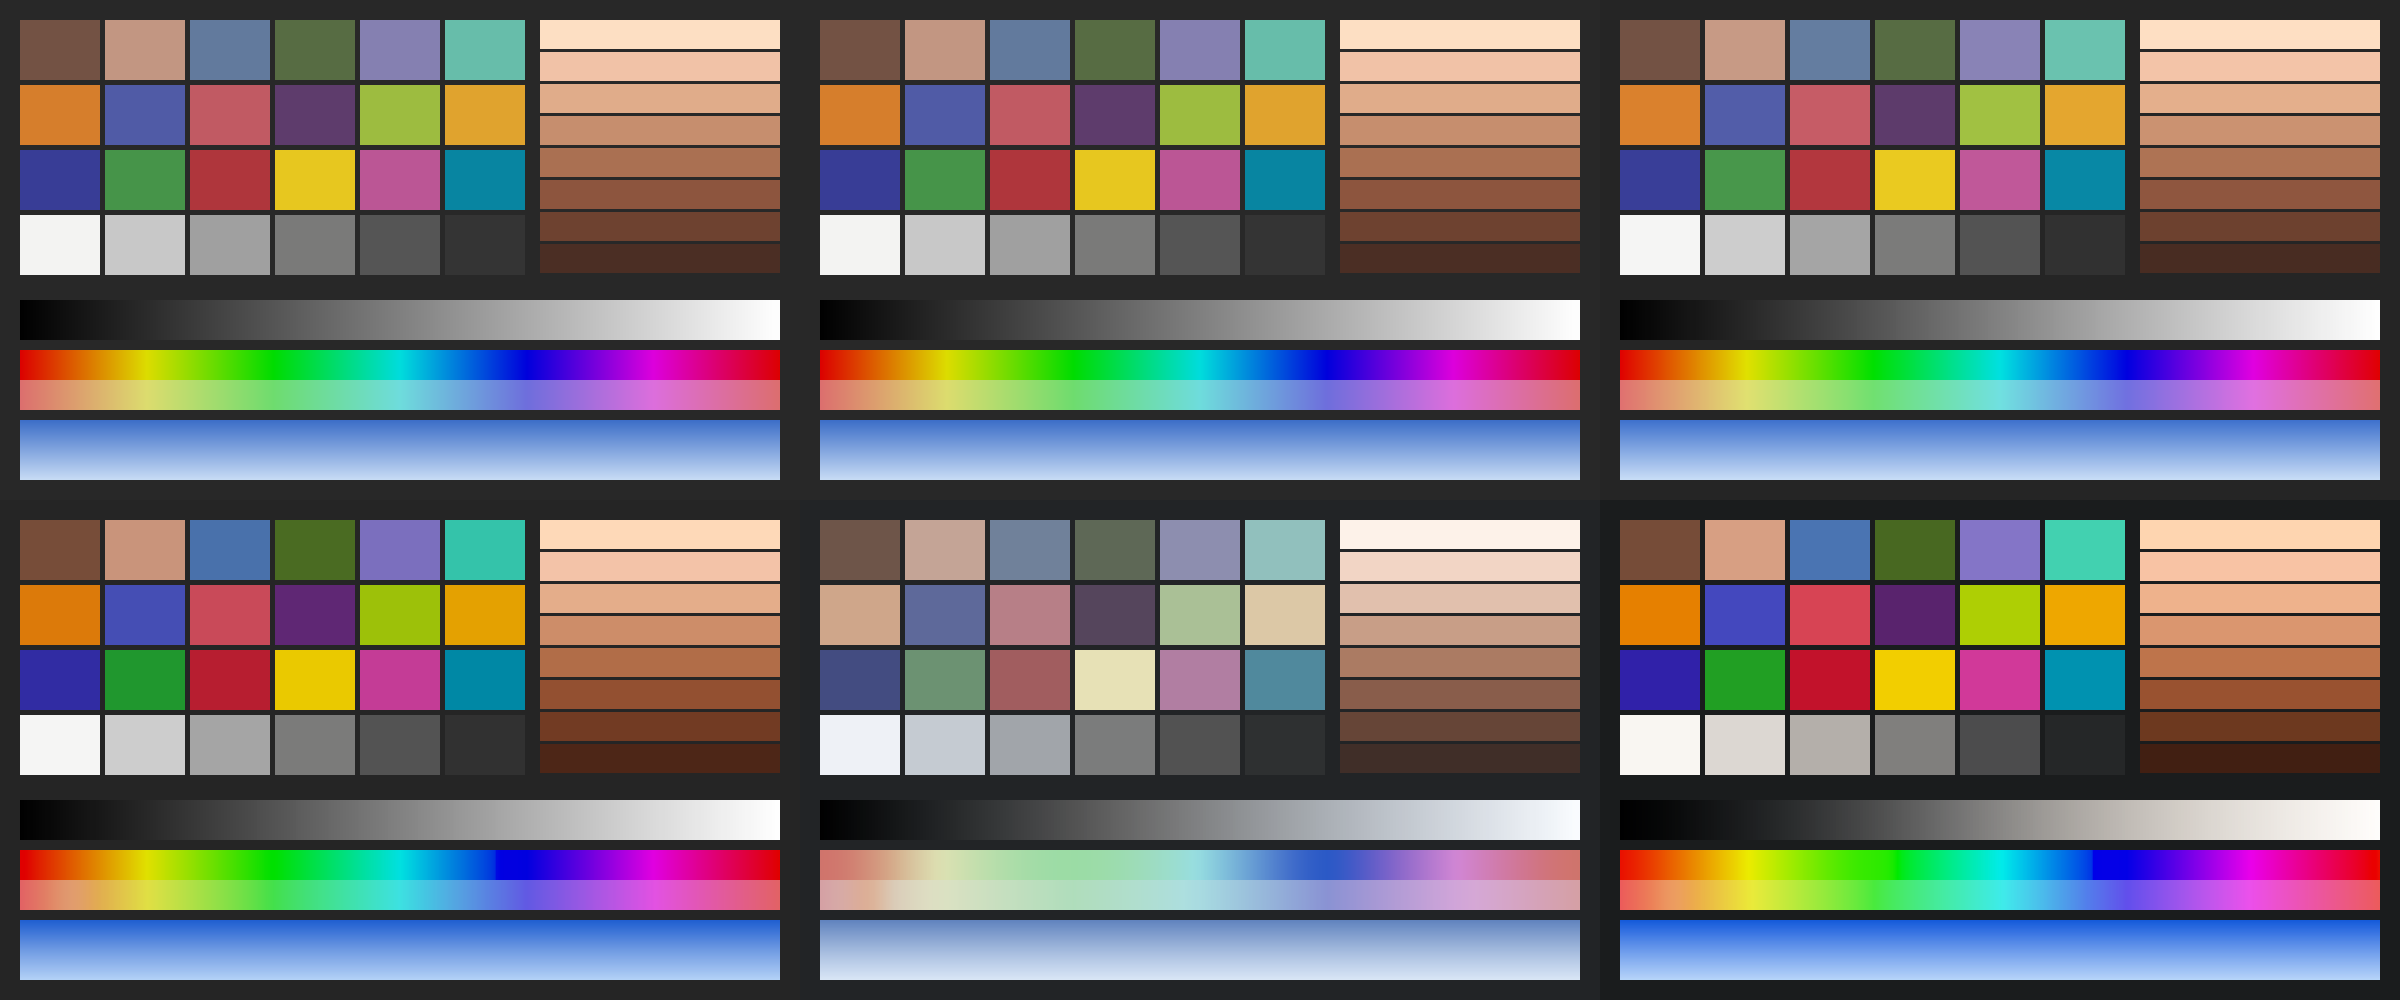
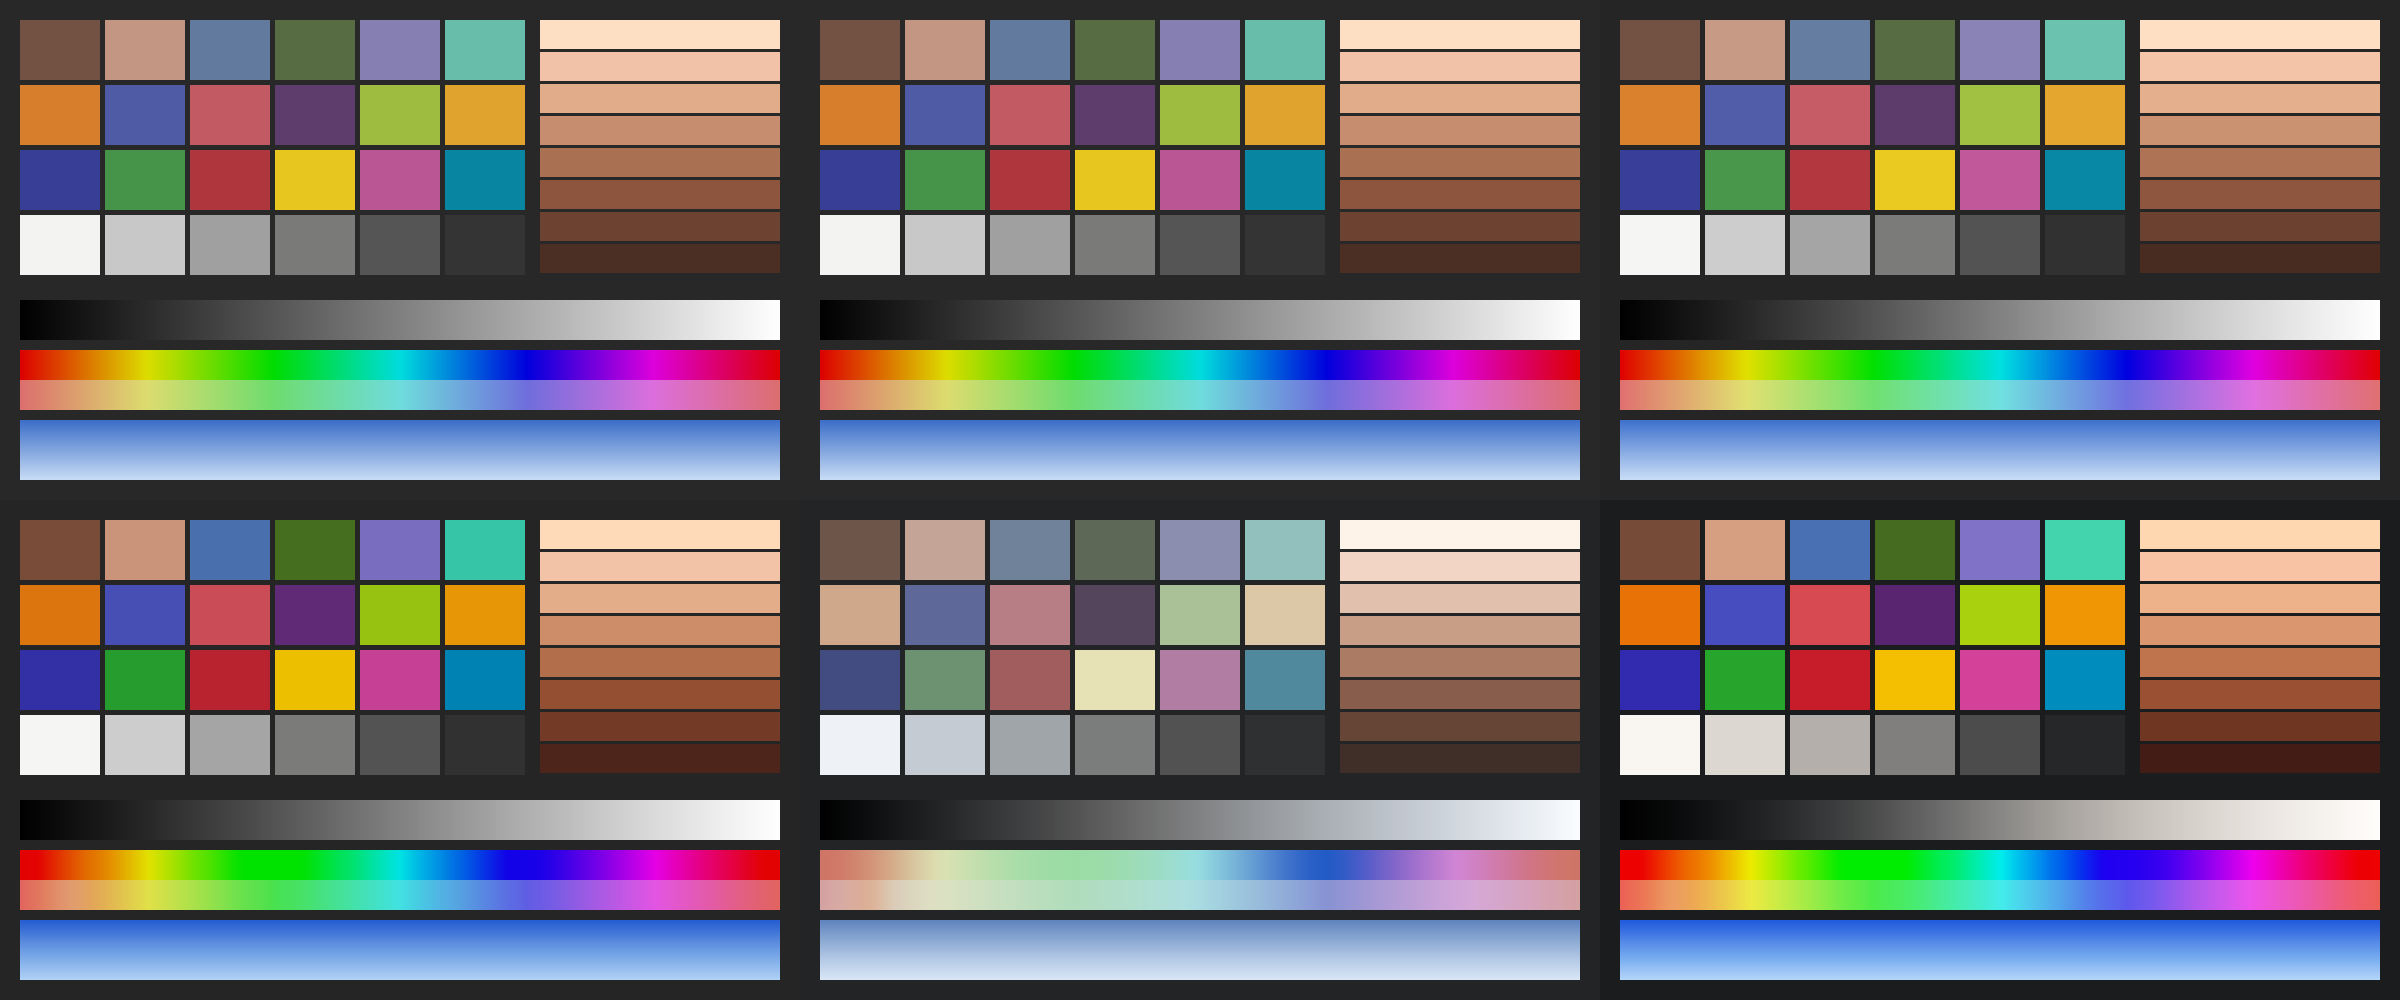
Looks v3: Helmholtz-Kohlrausch density, film's highlight hue path, ACES-style gamut compression
- Density (lightness paid for chroma gained) is weighted by Fairchild-Pirrotta's H-K hue factor:
  blues and magentas deepen, yellows stay clean instead of olive.
- hiTwist: bright reds turn toward orange and bright blues toward cyan above about +1 stop
  (0.10 / 0.08 / 0.14 rad for 高饱和 / 低饱和 / 浓烈), skin untouched.
- Gamut: Oklab's constant-lightness slices are not convex around blue, so the most chroma a hue
  can hold jumps there and the fit along hue left hard steps in saturated blue sweeps (since v2).
  Colours now come back into gamut by per-channel soft compression of the distance below the
  largest channel in linear light (ACES reference gamut compression), past the input's own
  distance (0.75-0.98): continuous everywhere, and no bisection (cheaper).
- Chart in docs/screenshots/looks-chart.png.

diff --git a/native/prism-core/src/look_hlsl.h b/native/prism-core/src/look_hlsl.h
@@ -5,8 +5,8 @@
 // colourist grades log footage: contrast in stops around mid grey on luminance alone, colour in
 // Oklab (perceptual and hue-linear). Muted colours gain more than strong ones (vibrance), greys
 // and whites stay neutral, skin takes only part of any change, highlights and deep shadows lose a
-// little chroma as film does, and colours that would leave the gamut are pulled back along their
-// own hue and lightness instead of being clipped.
+// little chroma as film does, and colours that would leave the gamut are compressed softly back
+// into it (ACES-style) instead of being clipped.
 //   0 默认    the network's result as it is
 //   1 高还原  the original's colour: only the network's light and shade, softly limited, less on skin
 //   2 高饱和  vivid and clean, for anime and stylised games
@@ -38,7 +38,6 @@ float3 LkLinear(float3 lab) {
                 dot(lms, float3(-0.0041960863, -0.7034186147, 1.7076147010)));
 }
 float LkY(float3 c) { return dot(c, float3(0.2126, 0.7152, 0.0722)); }
-float LkMin(float3 c) { return min(c.r, min(c.g, c.b)); }
 
 // A raised-cosine bump around a hue (radians, wrapping).
 float LkHue(float h, float centre, float width) {
@@ -55,28 +54,22 @@ float LkSkin(float3 lab) {
   return LkHue(atan2(lab.z, lab.y), kLkSkinHue, 0.52) * smoothstep(0.018, 0.045, c) * (1.0 - smoothstep(0.15, 0.22, c)) * smoothstep(0.22, 0.38, lab.x);
 }
 
-// The largest Oklab chroma at lightness L along a hue direction that has no negative channel. With
-// no upper bound (scene light), it grows with L.
-float LkMaxChroma(float L, float2 dir) {
-  float c0 = 0.0, c1 = 0.8 * max(L, 0.0) + 0.01;
-  [unroll] for (int i = 0; i < 10; ++i) {
-    const float m = 0.5 * (c0 + c1);
-    // A channel that only grazes zero along the way (red, on the way to blue) must not stop it.
-    const float3 q = LkLinear(float3(L, dir * m));
-    if (LkMin(q) >= -0.002 * max(q.r, max(q.g, q.b))) c0 = m; else c1 = m;
-  }
-  return c0;
+// Into gamut (no negative light), softly, the way ACES's reference gamut compression does it: each
+// channel's distance below the largest, relative to it (0 the largest itself, 1 no light, beyond 1
+// negative), is compressed past the input's own distance (at least 0.75), approaching 1 without
+// reaching it. Colours keep the saturation they came with and nothing is clipped into flat patches.
+// It is continuous everywhere: Oklab's constant-lightness slices of the gamut are not convex
+// around blue, so the most chroma a hue can hold jumps there, and fitting along hue made hard steps
+// in saturated blue gradients.
+float3 LkDist(float3 x) {
+  const float a = max(x.r, max(x.g, x.b));
+  return a > 1e-9 ? (a - x) / a : 0.0;
 }
-
-// Into gamut (no negative light), softly: the chroma of ab at lightness L, where chroma gained
-// beyond the input's (c) approaches the most this lightness and hue can hold without reaching it,
-// so colours already at the edge (a pure blue) stay put instead of jumping, and nothing is clipped
-// into flat patches.
-float LkFit(float L, float2 ab, float c) {
-  const float ct = length(ab);
-  const float cm = LkMaxChroma(L, ab / max(ct, 1e-6));
-  const float base = min(c, cm);
-  return ct <= base || ct <= 1e-6 ? ct : base + (cm - base) * (1.0 - exp(-(ct - base) / max(cm - base, 1e-5)));
+float3 LkCompress(float3 x, float3 dIn) {
+  const float a = max(x.r, max(x.g, x.b));
+  const float3 d = LkDist(x), t = clamp(dIn, 0.75, 0.98);
+  const float3 dc = d <= t ? d : t + (1.0 - t) * (1.0 - exp(-(d - t) / (1.0 - t)));
+  return a > 1e-9 ? a - dc * a : 0.0;
 }
 
 struct LkParams {
@@ -92,27 +85,28 @@ struct LkParams {
   float density;    // subtractive saturation: lightness given up per unit of chroma gained (film dyes)
   float skinAlign;  // the share of the way skin's hue moves toward the skin line
   float skyDeepen;  // lightness taken from bright blues and cyans (a polariser's sky)
+  float hiTwist;    // radians: bright reds turn toward yellow and bright blues toward cyan (film)
 };
 
 LkParams LkFor(uint look) {
   LkParams p;
   p.contrast = 1.0; p.sat = 1.0; p.vibrance = 0.0; p.skinKeep = 1.0; p.hiDesat = 0.0; p.loDesat = 0.0;
   p.hue[0] = 1.0; p.hue[1] = 1.0; p.hue[2] = 1.0; p.hue[3] = 1.0; p.hue[4] = 1.0; p.hue[5] = 1.0;
-  p.tintLo = 0.0; p.tintHi = 0.0; p.density = 0.0; p.skinAlign = 0.0; p.skyDeepen = 0.0;
+  p.tintLo = 0.0; p.tintHi = 0.0; p.density = 0.0; p.skinAlign = 0.0; p.skyDeepen = 0.0; p.hiTwist = 0.0;
   if (look == 2u) {  // 高饱和
     p.contrast = 1.10; p.sat = 1.38; p.vibrance = 0.55; p.skinKeep = 0.40; p.hiDesat = 0.10; p.loDesat = 0.08;
     p.hue[0] = 0.92; p.hue[1] = 1.08; p.hue[2] = 1.12; p.hue[3] = 1.15; p.hue[4] = 1.00; p.hue[5] = 1.05;
-    p.density = 0.35; p.skinAlign = 0.25; p.skyDeepen = 0.04;
+    p.density = 0.35; p.skinAlign = 0.25; p.skyDeepen = 0.04; p.hiTwist = 0.10;
   } else if (look == 3u) {  // 低饱和
     p.contrast = 1.14; p.sat = 0.58; p.vibrance = 0.0; p.skinKeep = 0.45; p.hiDesat = 0.25; p.loDesat = 0.25;
     p.hue[0] = 0.95; p.hue[1] = 0.85; p.hue[2] = 0.78; p.hue[3] = 1.00; p.hue[4] = 1.00; p.hue[5] = 0.85;
     p.tintLo = float2(-0.010, -0.016); p.tintHi = float2(-0.004, -0.014);
-    p.skinAlign = 0.30;
+    p.skinAlign = 0.30; p.hiTwist = 0.08;
   } else if (look == 4u) {  // 浓烈
     p.contrast = 1.42; p.sat = 1.50; p.vibrance = 0.35; p.skinKeep = 0.40; p.hiDesat = 0.10; p.loDesat = 0.0;
     p.hue[0] = 0.95; p.hue[1] = 1.05; p.hue[2] = 1.08; p.hue[3] = 1.12; p.hue[4] = 1.08; p.hue[5] = 1.02;
     p.tintLo = float2(-0.008, -0.014); p.tintHi = float2(0.004, 0.012);
-    p.density = 0.55; p.skinAlign = 0.35; p.skyDeepen = 0.07;
+    p.density = 0.55; p.skinAlign = 0.35; p.skyDeepen = 0.07; p.hiTwist = 0.14;
   }
   return p;
 }
@@ -127,6 +121,7 @@ float3 LkGrade(float3 x, LkParams p) {
   const float l2 = l + (p.contrast - 1.0) * 2.5 * tanh(l / 2.5);
   x *= exp2(l2 - l);
   // Chroma in Oklab.
+  const float3 dIn = LkDist(x);
   const float3 lab0 = LkOklab(x);
   const float c = length(lab0.yz);
   const float h = atan2(lab0.z, lab0.y);
@@ -151,18 +146,28 @@ float3 LkGrade(float3 x, LkParams p) {
     const float turn = dh * p.skinAlign * skin, cs = cos(turn), sn = sin(turn);
     lab.yz = float2(lab.y * cs - lab.z * sn, lab.y * sn + lab.z * cs);
   }
+  // Bright colours take film's hue path: a red pushed toward white passes through orange and a
+  // blue through cyan (dye cross-talk; a flame that goes pink or a sky that goes violet reads as
+  // video). Skin is left alone.
+  if (p.hiTwist > 0.0) {
+    const float turn = p.hiTwist * smoothstep(1.0, 4.0, l2) * smoothstep(0.03, 0.10, c) * (1.0 - skin) * (LkHue(h, 0.506, 0.9) - 0.6 * LkHue(h, -1.676, 0.9));
+    const float cs = cos(turn), sn = sin(turn);
+    lab.yz = float2(lab.y * cs - lab.z * sn, lab.y * sn + lab.z * cs);
+  }
   // Split toning, growing with lightness so black stays black; skin keeps its own hue.
   const float hi = smoothstep(-0.5, 2.5, l2), lo = 1.0 - smoothstep(-4.0, -0.5, l2);
   lab.yz += (p.tintHi * hi + p.tintLo * lo) * (1.0 - 0.75 * skin) * min(lab0.x, 1.2);
   // Subtractive saturation: the chroma a colour really gains (what the gamut lets it keep) is paid
   // for in lightness, the way film dyes darken as they grow denser, so a richer colour reads deeper
-  // instead of neon. Bright blues and cyans give a little lightness too (a polarised sky).
-  const float gained = max(LkFit(lab0.x, lab.yz, c) - c, 0.0);
+  // instead of neon. The price follows how much brighter than grey each hue looks at the same
+  // luminance (Helmholtz-Kohlrausch; Fairchild and Pirrotta's hue weight, yellow least, blue most),
+  // so blues and magentas deepen and yellows stay clean instead of turning olive. Bright blues and
+  // cyans give a little lightness too (a polarised sky).
+  const float hkw = (0.116 * abs(sin((h - 1.920) * 0.5)) + 0.085) / 0.159;
+  const float gained = max(length(LkOklab(LkCompress(LkLinear(float3(lab0.x, lab.yz)), dIn)).yz) - c, 0.0) * hkw;
   const float sky = LkHue(h, -1.676, 0.9) * smoothstep(0.03, 0.10, c) * smoothstep(0.55, 0.85, lab0.x);
   lab.x = lab0.x - p.density * gained * (1.0 - 0.5 * skin) - p.skyDeepen * sky * lab0.x;
-  const float ct = length(lab.yz);
-  if (ct > 1e-6) lab.yz *= LkFit(lab.x, lab.yz, c) / ct;
-  return max(LkLinear(lab), 0.0);
+  return max(LkCompress(LkLinear(lab), dIn), 0.0);
 }
 
 // The frame with the network's edit e (log2 ratio per channel) and the chosen look. o is the

diff --git a/docs/worklog/2026-10-23-tasks.md b/docs/worklog/2026-10-23-tasks.md
@@ -34,7 +34,7 @@
   - 坑：地平线 6 的生成帧在游戏自己的 Present 里递交，Present 钩子数不到（present fps = render fps），所以目标改成按渲染帧率计算。
 - [x] **引导滤波放大（UpFilter=1，默认）**：He & Sun 2015 快速引导滤波，低分辨率一个 pass（16×16 组读 24×24、5×5 拟合、再 5×5 平均），系数以中灰为基准存半精度。ups 离线：75% 闪烁 0.0086 → 0.0076，62.5% 0.0091 → 0.0082（低于 1.2 旗舰 75% JBU 的 0.0086），误差不变。地平线 6 结算页同场切换：GPU 多 0.10–0.15 ms。
 - [x] **档位按像素重新标注（用户决定）**：旗舰 = 100% = 网络 62.5% 边长；极致 = 150% = 76.55% 边长（像素正好 1.5 倍，保证“150%”是真数字）；去掉原生档。极致开销降到约等于 1.2 旗舰，开放给 RTX 5080 / 5090。应用里的键改为 prism-core.netSize（100/150），ini 仍写真实 NetScale；隔帧档写 NetScale=1。
-- [ ] **调色 v3（已写，待色卡验证）**：胶片密度按 Helmholtz–Kohlrausch 色相权重（Fairchild–Pirrotta：黄最少、蓝最多），黄不再发橄榄；高光色相走向（亮红经橙、亮蓝经青，hiTwist 0.08–0.14 rad），肤色不动。
+- [x] **调色 v3（色卡验证）**：胶片密度按 Helmholtz–Kohlrausch 色相权重（Fairchild–Pirrotta：黄最少、蓝最多），黄不再发橄榄；高光色相走向（亮红经橙、亮蓝经青，hiTwist 0.08–0.14 rad），肤色不动。色卡发现高饱和、浓烈的色相条在纯蓝处有硬台阶（v2 就有），根因：Oklab 等亮度切面在蓝色附近不是凸的，沿色相的最大色度本身跳变，二分查找怎么调都不连续。改为线性 RGB 里 ACES 式逐通道软压缩（以输入自己的饱和距离为阈值，至少 0.75，上限 0.98），处处连续，还省掉了二分查找。CPU 复刻 scratchpad/lk4.cjs。
 - 注意：下午 GPU 82°C、113 W、功耗墙降频（2092 MHz），跨时段帧数不可比，只用紧挨着的 A-B-A。
 - 自动化坑：结算页按 Y 重新开始会被中文输入法吃掉（jbu625/gf625 两轮作废），改用“继续 → 游戏重启”流程。
 

diff --git a/CHANGELOG.md b/CHANGELOG.md
@@ -13,6 +13,11 @@
   and clean, for anime and stylised games), 低饱和 (restrained colour, cool whites: the film and
   series look) and 浓烈 (deep contrast, rich colour). They grade in scene light before the game's
   tone mapping, keep greys neutral and skin natural, and never clip colours. In the app and the panel.
+- Looks, third pass: the film-dye density now follows how much brighter each hue looks than grey
+  (Helmholtz-Kohlrausch), so blues and magentas deepen while yellows stay clean instead of olive;
+  bright reds pass through orange and bright blues through cyan on their way to white, as on film
+  (skin untouched); and colours are brought back into gamut by an ACES-style soft compression in
+  linear light, which removes the hard steps saturated blue gradients showed in 高饱和 and 浓烈.
 - New resolution scale for the every-frame tiers. The network's resolution is named by pixels
   relative to the flagship's base: 100% is the network at 62.5% of the output a side, its edit
   brought back up to native along the native picture's edges; 150% has half as many pixels again
